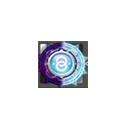
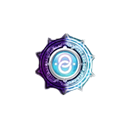
Core Magic Power System edited. Success this turn.

Changed region(s): [[0.25, 0.25, 0.75, 0.75]]

diff --git a/src/main/java/Luminous/powers/MagicPowerSystem.java b/src/main/java/Luminous/powers/MagicPowerSystem.java
@@ -29,9 +29,9 @@ public class MagicPowerSystem extends AbstractPower implements CloneablePowerInt
     public static final String NAME = powerStrings.NAME;
     public static final String[] DESCRIPTIONS = powerStrings.DESCRIPTIONS;
     public static final int Balance_AMT = 2;
-    private static final int Balance_TURN = 1;
-    private boolean LightThrough = false;
-    private boolean DarkThrough = false;
+    private static final int Balance_TURN = 3;
+    public static boolean LightThrough = false;
+    public static boolean DarkThrough = false;
 
     public MagicPowerSystem(final AbstractCreature owner, final int amount) {
         name = NAME;
@@ -43,7 +43,7 @@ public class MagicPowerSystem extends AbstractPower implements CloneablePowerInt
         type = PowerType.BUFF;
         isTurnBased = false;
 
-        this.img = ImageMaster.loadImage(makePowerPath("LightMirror.png"));
+        this.img = ImageMaster.loadImage(makePowerPath("Mirror.png"));
 
         updateDescription();
     }
@@ -53,23 +53,21 @@ public class MagicPowerSystem extends AbstractPower implements CloneablePowerInt
 
     public void onAfterCardPlayed(final AbstractCard card) {
         if (card.type == AbstractCard.CardType.ATTACK && juageMagicCardAction.isLightCard(card)){
-            flash();
-            if (MagicPowerAction.canGainMagicPower(AbstractDungeon.player,LightPower.POWER_ID)){
+           if (MagicPowerAction.canGainLightPower(AbstractDungeon.player)){
                 AbstractDungeon.actionManager.addToBottom(new ApplyPowerAction(AbstractDungeon.player, AbstractDungeon.player,
-                        new LightPower(AbstractDungeon.player, 1),1));
+                         new LightPower(AbstractDungeon.player, 1),1));
             }
             if (getPowerAmtAction.main(LightPower.POWER_ID) >= MagicPowerSystem.Balance_AMT){
                 AbstractDungeon.actionManager.addToBottom(new ApplyPowerAction(AbstractDungeon.player, AbstractDungeon.player,
                         new BalancePower(AbstractDungeon.player, Balance_TURN),Balance_TURN));
                 AbstractDungeon.actionManager.addToBottom(new RemoveSpecificPowerAction(AbstractDungeon.player, AbstractDungeon.player,
                         LightPower.POWER_ID));
-                this.LightThrough = true;
+                MagicPowerSystem.LightThrough = true;
             }
         }
 
         if (card.type == AbstractCard.CardType.ATTACK && juageMagicCardAction.isDarkCard(card)){
-            flash();
-            if (MagicPowerAction.canGainMagicPower(AbstractDungeon.player,DarkPower.POWER_ID)){
+            if (MagicPowerAction.canGainDarkPower(AbstractDungeon.player)){
                 AbstractDungeon.actionManager.addToBottom(new ApplyPowerAction(AbstractDungeon.player, AbstractDungeon.player,
                         new DarkPower(AbstractDungeon.player, 1),1));
             }
@@ -78,29 +76,11 @@ public class MagicPowerSystem extends AbstractPower implements CloneablePowerInt
                         new BalancePower(AbstractDungeon.player, Balance_TURN),Balance_TURN));
                 AbstractDungeon.actionManager.addToBottom(new RemoveSpecificPowerAction(
                         AbstractDungeon.player, AbstractDungeon.player, DarkPower.POWER_ID));
-                this.DarkThrough = true;
+                MagicPowerSystem.DarkThrough = true;
             }
         }
     }
 
-    public void atEndOfTurn(boolean isPlayer){
-        if (this.LightThrough || this.DarkThrough){
-            AbstractDungeon.actionManager.addToBottom(new ReducePowerAction(AbstractDungeon.player, AbstractDungeon.player,
-                    new BalancePower(AbstractDungeon.player, 1),1));
-            if (getPowerAmtAction.main(BalancePower.POWER_ID) == 0){
-                if (LightThrough){
-                    AbstractDungeon.actionManager.addToBottom(new ApplyPowerAction(AbstractDungeon.player, AbstractDungeon.player,
-                            new DarkPower(AbstractDungeon.player, 1),1));
-                    this.LightThrough = false;
-                }
-                else if (DarkThrough){
-                    AbstractDungeon.actionManager.addToBottom(new ApplyPowerAction(AbstractDungeon.player, AbstractDungeon.player,
-                            new LightPower(AbstractDungeon.player, 1),1));
-                    this.DarkThrough = false;
-                }
-            }
-        }
-    }
 
 
     @Override

diff --git a/src/main/java/Luminous/powers/BalancePower.java b/src/main/java/Luminous/powers/BalancePower.java
@@ -1,15 +1,24 @@
 package Luminous.powers;
 
 import Luminous.DefaultMod;
+import Luminous.actions.getPowerAmtAction;
 import Luminous.actions.juageMagicCardAction;
 import basemod.interfaces.CloneablePowerInterface;
+import com.megacrit.cardcrawl.actions.common.ApplyPowerAction;
+import com.megacrit.cardcrawl.actions.common.ReducePowerAction;
+import com.megacrit.cardcrawl.actions.common.RemoveSpecificPowerAction;
 import com.megacrit.cardcrawl.cards.AbstractCard;
+import com.megacrit.cardcrawl.characters.AbstractPlayer;
 import com.megacrit.cardcrawl.core.AbstractCreature;
 import com.megacrit.cardcrawl.core.CardCrawlGame;
+import com.megacrit.cardcrawl.dungeons.AbstractDungeon;
 import com.megacrit.cardcrawl.helpers.ImageMaster;
 import com.megacrit.cardcrawl.localization.PowerStrings;
 import com.megacrit.cardcrawl.monsters.AbstractMonster;
 import com.megacrit.cardcrawl.powers.AbstractPower;
+import Luminous.actions.MagicPowerAction;
+import Luminous.powers.MagicPowerSystem;
+import com.megacrit.cardcrawl.powers.StrengthPower;
 
 import static Luminous.DefaultMod.makePowerPath;
 
@@ -20,6 +29,7 @@ public class BalancePower extends AbstractPower implements CloneablePowerInterfa
     public static final String NAME = powerStrings.NAME;
     public static final String[] DESCRIPTIONS = powerStrings.DESCRIPTIONS;
     private int Left_AMT = 0;
+    private boolean justApplied = false;
 
     public BalancePower(final AbstractCreature owner, final int amount) {
         name = NAME;
@@ -29,7 +39,8 @@ public class BalancePower extends AbstractPower implements CloneablePowerInterfa
         this.amount = amount;
 
         type = PowerType.BUFF;
-        isTurnBased = false;
+        isTurnBased = true;
+        justApplied = true;
 
         this.img = ImageMaster.loadImage(makePowerPath("BalancePower.png"));
 
@@ -40,10 +51,38 @@ public class BalancePower extends AbstractPower implements CloneablePowerInterfa
     public void onPlayCard(AbstractCard card, AbstractMonster m)  {
         if (card.type == AbstractCard.CardType.ATTACK && juageMagicCardAction.isBalanceCard(card)){
             flash();
-
+            //clear here
         }
     }
 
+    public void atEndOfRound(){
+        if (this.justApplied) {
+            this.justApplied = false;
+            return;
+        }
+        if (this.amount == 0){
+            AbstractDungeon.actionManager.addToBottom(new RemoveSpecificPowerAction(owner, owner, BalancePower.POWER_ID));
+        }
+        else {
+            if (this.amount == 1){
+                if (MagicPowerSystem.LightThrough){
+                    AbstractDungeon.actionManager.addToBottom(new ApplyPowerAction(owner, owner,
+                            new DarkPower(owner, 1),1));
+                    MagicPowerSystem.LightThrough = false;
+                }
+                else if (MagicPowerSystem.DarkThrough){
+                    AbstractDungeon.actionManager.addToBottom(new ApplyPowerAction(owner, owner,
+                            new LightPower(owner, 1),1));
+                    MagicPowerSystem.DarkThrough = false;
+                }
+            }
+            AbstractDungeon.actionManager.addToBottom(new ReducePowerAction(owner, owner,
+                    BalancePower.POWER_ID,1));
+        }
+        //effect here
+        updateDescription();
+
+    }
 
     // Update the description when you apply this power. (i.e. add or remove an "s" in keyword(s))
     @Override
